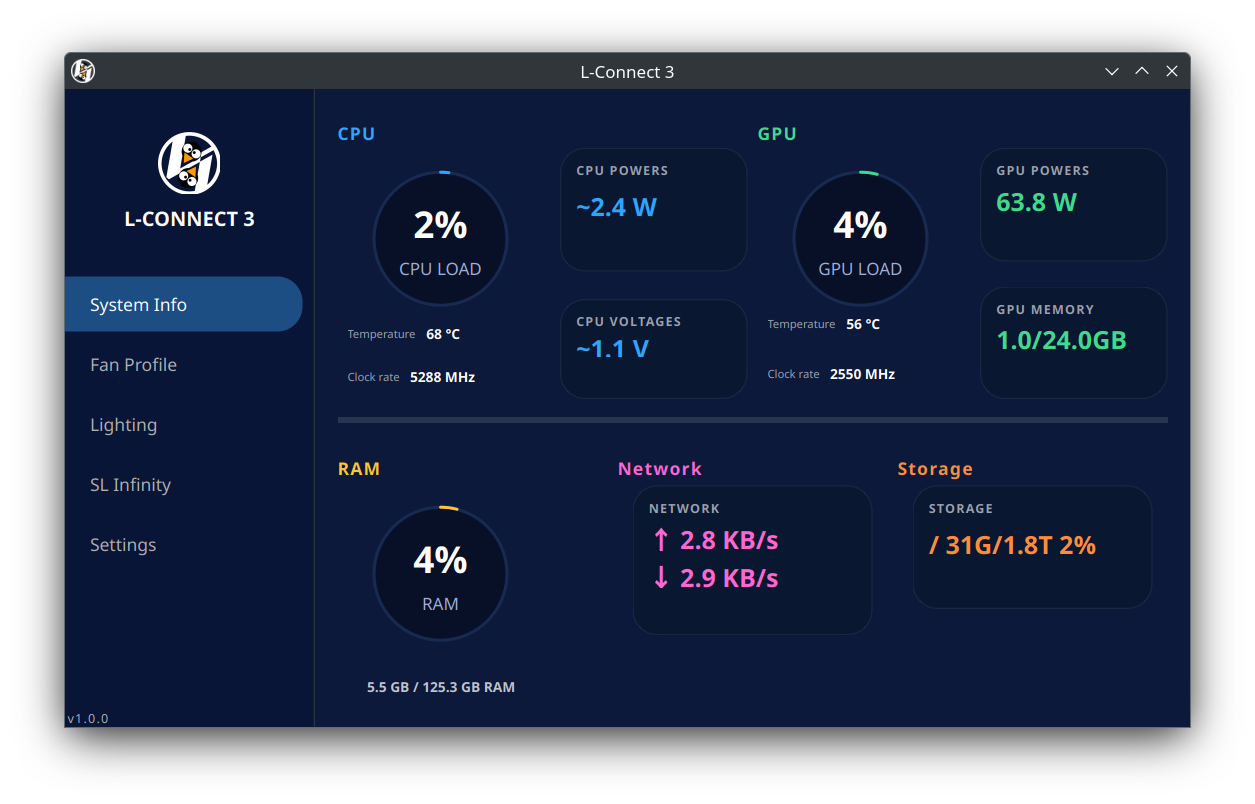
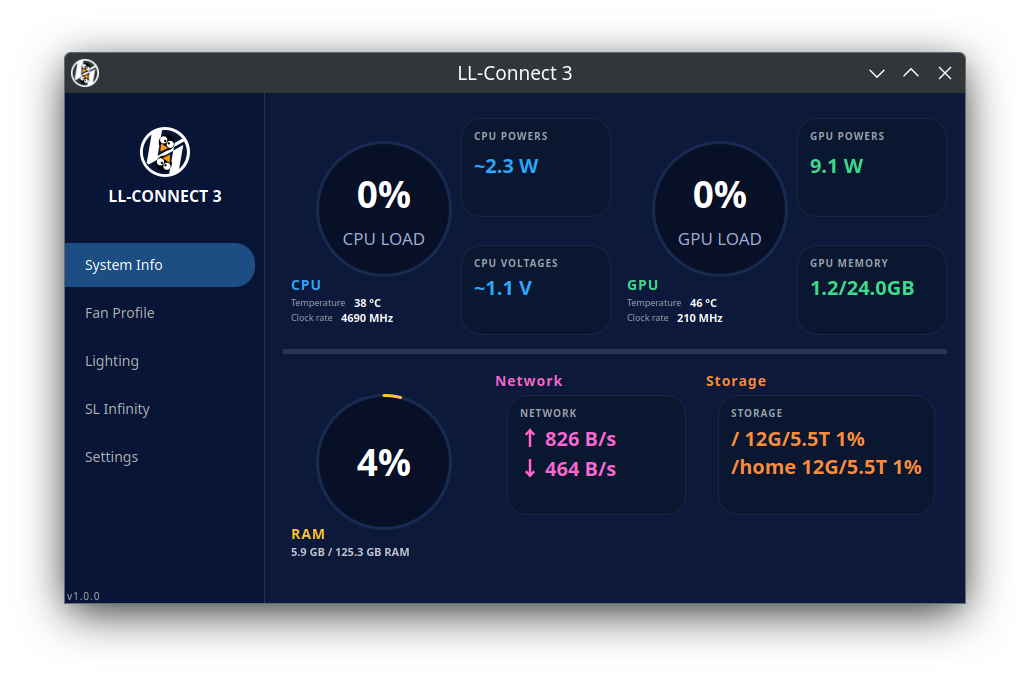
Improve System Info page layout: move text lower below circles and reduce bottom spacing
- Increased top margin (10px -> 30px) on CPU/GPU/RAM metrics columns to push text lower below circles
- Reduced main layout bottom margin (20px -> 10px) to bring up bottom of window
- Reduced bottom row minimum height (250px -> 230px) to reduce empty space
- Removed hardcoded default window resize in mainwindow.cpp since window persistence handles sizing
- Updated systeminfo.png screenshot to reflect layout improvements

diff --git a/src/pages/systeminfopage.cpp b/src/pages/systeminfopage.cpp
@@ -36,7 +36,7 @@ void SystemInfoPage::setupUI()
     setSizePolicy(QSizePolicy::Expanding, QSizePolicy::Expanding);
     
     m_mainLayout = new QVBoxLayout(this);
-    m_mainLayout->setContentsMargins(18, 16, 18, 18);
+    m_mainLayout->setContentsMargins(18, 16, 18, 10); // Reduced bottom margin to bring up bottom of window
     m_mainLayout->setSpacing(14);
 
     // Header
@@ -58,16 +58,16 @@ void SystemInfoPage::setupUI()
 
     m_mainLayout->addLayout(m_headerLayout);
 
-    // Content layout with proper size policies
+    // Content layout: 2 columns, CPU/GPU top row, RAM/Network/Storage bottom row
     m_contentGrid = new QGridLayout();
     m_contentGrid->setHorizontalSpacing(8);
     m_contentGrid->setVerticalSpacing(8);
-    // Give the right column a bit more share so its left edge moves left
     m_contentGrid->setColumnStretch(0, 1);
     m_contentGrid->setColumnStretch(1, 2);
-    m_contentGrid->setRowStretch(0, 3);
-    m_contentGrid->setRowStretch(1, 0);
-    m_contentGrid->setRowStretch(2, 2);
+    m_contentGrid->setRowStretch(0, 3); // Top row with CPU, GPU
+    m_contentGrid->setRowStretch(1, 0); // Divider
+    m_contentGrid->setRowStretch(2, 2); // Bottom row with RAM, Network, Storage
+    m_contentGrid->setRowMinimumHeight(2, 230); // Reduced to bring up bottom of window
     m_contentGrid->setSizeConstraint(QLayout::SetDefaultConstraint);
 
     m_mainLayout->addLayout(m_contentGrid);
@@ -149,16 +149,12 @@ void SystemInfoPage::createMonitoringCards()
     cpuPanelLayout->setContentsMargins(0, -18, 0, 6);
     cpuPanelLayout->setSpacing(2);
 
-    QLabel *cpuHeader = new QLabel("CPU");
-    cpuHeader->setObjectName("cpuHeading");
-    cpuPanelLayout->addWidget(cpuHeader);
-
-    // CPU main content: strict 2x2 grid
+    // CPU main content: strict 2x2 grid - all spacing must match GPU exactly
+    // Header will be moved below the circle for stability
     QGridLayout *cpuGrid = new QGridLayout();
     cpuGrid->setHorizontalSpacing(14);
-    cpuGrid->setVerticalSpacing(10);
+    cpuGrid->setVerticalSpacing(20); // Match GPU exactly
     cpuGrid->setContentsMargins(8, -92, 0, 0);
-    cpuGrid->setVerticalSpacing(20); // Increased vertical spacing
 
     // Left column: CPU circle
     m_cpuLoadCard = new MonitoringCard(MonitoringCard::CircularProgress, "CPU LOAD");
@@ -167,10 +163,15 @@ void SystemInfoPage::createMonitoringCards()
     m_cpuLoadCard->setValue("3%");
     cpuGrid->addWidget(m_cpuLoadCard, 0, 0, Qt::AlignLeft | Qt::AlignTop);
 
-    // Below circle: metrics (temp + clock)
+    // Below circle: header label and metrics (temp + clock) - exact same positioning as GPU
     QVBoxLayout *cpuMetricsColumn = new QVBoxLayout();
-    cpuMetricsColumn->setSpacing(0); // No spacing between temp and clock
-    cpuMetricsColumn->setContentsMargins(0, 10, 0, 0); // Add top margin to push down
+    cpuMetricsColumn->setSpacing(0); // No spacing between elements
+    cpuMetricsColumn->setContentsMargins(0, 30, 0, 0); // Increased top margin to push text lower below circle
+    
+    // CPU header label below circle
+    QLabel *cpuHeader = new QLabel("CPU");
+    cpuHeader->setObjectName("cpuHeading");
+    cpuMetricsColumn->addWidget(cpuHeader);
     
     // Temperature line - simple label and value
     QHBoxLayout *tempLine = new QHBoxLayout();
@@ -203,21 +204,26 @@ void SystemInfoPage::createMonitoringCards()
     clockLine->addStretch(); // Push content to the left
     
     cpuMetricsColumn->addLayout(clockLine);
-    cpuGrid->addLayout(cpuMetricsColumn, 1, 0);
+    cpuGrid->addLayout(cpuMetricsColumn, 1, 0, Qt::AlignLeft | Qt::AlignTop);
     cpuGrid->setColumnMinimumWidth(1, 120); // Ensure enough space for metrics
+    cpuGrid->setRowMinimumHeight(0, 180); // Match GPU row 0 height for consistent circle positioning
     cpuGrid->setRowMinimumHeight(1, 60); // Ensure enough vertical space for metrics
 
-    // Right column: power over voltage
+    // Right column: power over voltage - must match GPU card sizes exactly
     m_cpuPowerCard = new MonitoringCard(MonitoringCard::RectangularValue, "CPU POWERS");
     m_cpuPowerCard->setColor(QColor(45, 166, 255));
     m_cpuPowerCard->setValue("-- W");
     m_cpuPowerCard->setMinimumWidth(150);
+    m_cpuPowerCard->setMinimumHeight(90); // Match GPU power card for alignment
+    m_cpuPowerCard->setMaximumHeight(120); // Match GPU power card for alignment
     cpuGrid->addWidget(m_cpuPowerCard, 0, 1, Qt::AlignTop);
 
     m_cpuVoltageCard = new MonitoringCard(MonitoringCard::RectangularValue, "CPU VOLTAGES");
     m_cpuVoltageCard->setColor(QColor(45, 166, 255));
     m_cpuVoltageCard->setValue("-- V");
     m_cpuVoltageCard->setMinimumWidth(150);
+    m_cpuVoltageCard->setMinimumHeight(90); // Match GPU memory card height for alignment
+    m_cpuVoltageCard->setMaximumHeight(120); // Match GPU memory card height for alignment
     cpuGrid->addWidget(m_cpuVoltageCard, 1, 1, Qt::AlignTop);
 
     cpuGrid->setColumnStretch(0, 2);
@@ -233,26 +239,27 @@ void SystemInfoPage::createMonitoringCards()
     gpuPanelLayout->setContentsMargins(0, -18, 0, 6);
     gpuPanelLayout->setSpacing(2);
 
-    QLabel *gpuHeader = new QLabel("GPU");
-    gpuHeader->setObjectName("gpuHeading");
-    gpuPanelLayout->addWidget(gpuHeader);
-
-    // GPU main content: strict 2x2 grid mirroring CPU
+    // GPU main content: strict 2x2 grid - all spacing must match CPU exactly
+    // Header will be moved below the circle for stability
     QGridLayout *gpuGrid = new QGridLayout();
     gpuGrid->setHorizontalSpacing(14);
-    gpuGrid->setVerticalSpacing(10);
+    gpuGrid->setVerticalSpacing(20); // Match CPU exactly
     gpuGrid->setContentsMargins(8, -92, 0, 0);
-    gpuGrid->setVerticalSpacing(20); // Increased vertical spacing
 
     // Left column: GPU circle
     m_gpuLoadCard = new MonitoringCard(MonitoringCard::CircularProgress, "GPU LOAD");
     m_gpuLoadCard->setColor(QColor(62, 219, 141));
     gpuGrid->addWidget(m_gpuLoadCard, 0, 0, Qt::AlignLeft | Qt::AlignTop);
 
-    // Below circle: GPU metrics
+    // Below circle: header label and GPU metrics - exact same positioning as CPU
     QVBoxLayout *gpuMetricsColumn = new QVBoxLayout();
-    gpuMetricsColumn->setSpacing(0); // No spacing between temp and clock
-    gpuMetricsColumn->setContentsMargins(0, 10, 0, 0); // Add top margin to push down
+    gpuMetricsColumn->setSpacing(0); // No spacing between elements
+    gpuMetricsColumn->setContentsMargins(0, 30, 0, 0); // Increased top margin to push text lower below circle
+
+    // GPU header label below circle
+    QLabel *gpuHeader = new QLabel("GPU");
+    gpuHeader->setObjectName("gpuHeading");
+    gpuMetricsColumn->addWidget(gpuHeader);
 
     QHBoxLayout *gpuTempLine = new QHBoxLayout();
     gpuTempLine->setSpacing(8);
@@ -276,14 +283,17 @@ void SystemInfoPage::createMonitoringCards()
     gpuClockLine->addStretch();
     gpuMetricsColumn->addLayout(gpuClockLine);
 
-    gpuGrid->addLayout(gpuMetricsColumn, 1, 0);
+    gpuGrid->addLayout(gpuMetricsColumn, 1, 0, Qt::AlignLeft | Qt::AlignTop);
     gpuGrid->setColumnMinimumWidth(1, 120); // Ensure enough space for metrics
-    gpuGrid->setRowMinimumHeight(1, 60); // Ensure enough vertical space for metrics
+    gpuGrid->setRowMinimumHeight(0, 180); // Match CPU row 0 height for consistent circle positioning
+    gpuGrid->setRowMinimumHeight(1, 60); // Ensure enough vertical space for metrics - must match CPU exactly
 
-    // Right column: power over voltage
+    // Right column: power over voltage - must match CPU card sizes exactly
     m_gpuPowerCard = new MonitoringCard(MonitoringCard::RectangularValue, "GPU Powers");
     m_gpuPowerCard->setColor(QColor(62, 219, 141));
     m_gpuPowerCard->setMinimumWidth(150);
+    m_gpuPowerCard->setMinimumHeight(90); // Match CPU power card for alignment
+    m_gpuPowerCard->setMaximumHeight(120); // Match CPU power card for alignment
     gpuGrid->addWidget(m_gpuPowerCard, 0, 1, Qt::AlignTop);
 
     m_gpuMemoryCard = new MonitoringCard(MonitoringCard::RectangularValue, "GPU MEMORY");
@@ -305,51 +315,55 @@ void SystemInfoPage::createMonitoringCards()
     contentDivider->setFixedHeight(5);
     m_contentGrid->addWidget(contentDivider, 1, 0, 1, 2);
 
-
-    // RAM, Network & Storage container - all three cards in one row
+    // Bottom row: RAM, Network, Storage
     QWidget *bottomContainer = new QWidget();
-    bottomContainer->setSizePolicy(QSizePolicy::Expanding, QSizePolicy::Preferred);
+    bottomContainer->setSizePolicy(QSizePolicy::Expanding, QSizePolicy::Expanding);
     QHBoxLayout *bottomLayout = new QHBoxLayout(bottomContainer);
-    bottomLayout->setContentsMargins(0, -8, 0, 0);
-    bottomLayout->setSpacing(8); // Small spacing between cards
+    bottomLayout->setContentsMargins(0, 0, 0, 0);
+    bottomLayout->setSpacing(8);
 
-    // RAM Panel
+    // RAM Panel - matching CPU/GPU structure, but in bottom row
     QFrame *ramPanel = new QFrame();
     ramPanel->setObjectName("infoPanel");
-    ramPanel->setSizePolicy(QSizePolicy::Preferred, QSizePolicy::Preferred);
-    ramPanel->setMinimumWidth(200);
+    ramPanel->setSizePolicy(QSizePolicy::Expanding, QSizePolicy::Expanding);
     QVBoxLayout *ramPanelLayout = new QVBoxLayout(ramPanel);
-    ramPanelLayout->setContentsMargins(0, -20, 0, 6);
+    ramPanelLayout->setContentsMargins(0, -18, 0, 20); // Increased bottom margin to prevent clipping
     ramPanelLayout->setSpacing(2);
 
-    QLabel *ramHeader = new QLabel("RAM");
-    ramHeader->setObjectName("ramHeading");
-    ramPanelLayout->addWidget(ramHeader);
+    // RAM grid - ensure text is clearly below circle  
+    QGridLayout *ramGrid = new QGridLayout();
+    ramGrid->setHorizontalSpacing(14);
+    ramGrid->setVerticalSpacing(20); // Match CPU/GPU spacing
+    ramGrid->setContentsMargins(8, -92, 0, 15);
 
-    QHBoxLayout *ramContentRow = new QHBoxLayout();
-    ramContentRow->setSpacing(0);
-    ramContentRow->setAlignment(Qt::AlignLeft);
-    ramContentRow->setContentsMargins(0, 0, 0, 0);
-
-    QVBoxLayout *ramLeftColumn = new QVBoxLayout();
-    ramLeftColumn->setSpacing(6);
-    ramLeftColumn->setAlignment(Qt::AlignLeft);
-    ramLeftColumn->setContentsMargins(8, -92, 0, 0);
-
+    // Circle in row 0
     m_ramUsageCard = new MonitoringCard(MonitoringCard::CircularProgress, "RAM");
     m_ramUsageCard->setColor(QColor(255, 196, 49));
-    m_ramUsageCard->setFixedSize(150, 150);
-    ramLeftColumn->addWidget(m_ramUsageCard, 0, Qt::AlignLeft);
+    ramGrid->addWidget(m_ramUsageCard, 0, 0, Qt::AlignLeft | Qt::AlignTop);
 
+    // Below circle: header label and RAM details - matching CPU/GPU pattern
+    QVBoxLayout *ramMetricsColumn = new QVBoxLayout();
+    ramMetricsColumn->setSpacing(0);
+    ramMetricsColumn->setContentsMargins(0, 30, 0, 0); // Increased top margin to push text lower below circle
+
+    // RAM header label below circle
+    QLabel *ramHeader = new QLabel("RAM");
+    ramHeader->setObjectName("ramHeading");
+    ramMetricsColumn->addWidget(ramHeader);
+
+    // RAM details text
     m_ramDetailsLabel = new QLabel("-- / -- RAM");
-    m_ramDetailsLabel->setAlignment(Qt::AlignHCenter);
+    m_ramDetailsLabel->setAlignment(Qt::AlignLeft);
     m_ramDetailsLabel->setStyleSheet("color: rgba(255, 255, 255, 0.75); font-size: 11px; font-weight: 600;");
-    ramLeftColumn->addWidget(m_ramDetailsLabel);
+    ramMetricsColumn->addWidget(m_ramDetailsLabel);
 
-    ramContentRow->addLayout(ramLeftColumn, 0);
-    ramContentRow->addStretch(1);
+    ramGrid->addLayout(ramMetricsColumn, 1, 0, Qt::AlignLeft | Qt::AlignTop);
+    ramGrid->setRowMinimumHeight(0, 180); // Match CPU/GPU row 0 height
+    ramGrid->setRowMinimumHeight(1, 60);  // Match CPU/GPU row 1 height
+    ramGrid->setColumnStretch(0, 1); // Allow column to expand
 
-    ramPanelLayout->addLayout(ramContentRow);
+    ramPanelLayout->addLayout(ramGrid);
+    ramPanelLayout->addStretch(); // Add stretch to push content up and prevent clipping
     bottomLayout->addWidget(ramPanel);
 
     // Network Panel
@@ -1137,7 +1151,7 @@ void SystemInfoPage::updateRAMInfo()
             
             m_ramUsageCard->setProgress(ramUsage);
             m_ramUsageCard->setValue(QString::number(ramUsage) + "%");
-            m_ramUsageCard->setSubValue("RAM");
+            m_ramUsageCard->setSubValue(""); // Clear subValue - we show RAM stats below the circle instead
 
             const double usedGB = usedMem / 1024.0 / 1024.0;
             const double totalGB = totalMem / 1024.0 / 1024.0;
@@ -1148,7 +1162,7 @@ void SystemInfoPage::updateRAMInfo()
             // Fallback if /proc/meminfo fails
             m_ramUsageCard->setProgress(0);
             m_ramUsageCard->setValue("--%");
-            m_ramUsageCard->setSubValue("RAM");
+            m_ramUsageCard->setSubValue(""); // Clear subValue - we show RAM stats below the circle instead
             m_ramDetailsLabel->setText("-- / -- RAM");
         }
         memFile.close();

diff --git a/src/mainwindow.cpp b/src/mainwindow.cpp
@@ -12,6 +12,8 @@
 #include <QIcon>
 #include <QTabBar>
 #include <QList>
+#include <QSettings>
+#include <QCloseEvent>
 
 MainWindow::MainWindow(QWidget *parent)
     : QMainWindow(parent)
@@ -31,8 +33,14 @@ MainWindow::MainWindow(QWidget *parent)
     // Set window properties with proper size policies
     setWindowTitle("LL-Connect 3");
     setMinimumSize(900, 510);
-    // Start near the reference screenshot size
-    resize(900, 510);
+    
+    // Restore window geometry from settings
+    QSettings settings("LianLi", "LConnect3");
+    QByteArray geometry = settings.value("windowGeometry").toByteArray();
+    if (!geometry.isEmpty()) {
+        restoreGeometry(geometry);
+    }
+    // Window will use minimum size (900x510) if no saved geometry exists
     
     // Set window icon
     setWindowIcon(QIcon(":/icons/resources/logo.png"));
@@ -43,7 +51,18 @@ MainWindow::MainWindow(QWidget *parent)
 
 MainWindow::~MainWindow()
 {
+    // Save window geometry before destruction
+    QSettings settings("LianLi", "LConnect3");
+    settings.setValue("windowGeometry", saveGeometry());
     delete ui;
+}
+
+void MainWindow::closeEvent(QCloseEvent *event)
+{
+    // Save window geometry when closing
+    QSettings settings("LianLi", "LConnect3");
+    settings.setValue("windowGeometry", saveGeometry());
+    event->accept();
 }
 
 void MainWindow::setupUI()

diff --git a/src/mainwindow.h b/src/mainwindow.h
@@ -15,6 +15,7 @@
 QT_BEGIN_NAMESPACE
 class QAction;
 class QMenu;
+class QCloseEvent;
 namespace Ui { class MainWindow; }
 QT_END_NAMESPACE
 
@@ -31,6 +32,9 @@ class MainWindow : public QMainWindow
 public:
     MainWindow(QWidget *parent = nullptr);
     ~MainWindow();
+
+protected:
+    void closeEvent(QCloseEvent *event) override;
 
 private slots:
     void onNavigationClicked();
